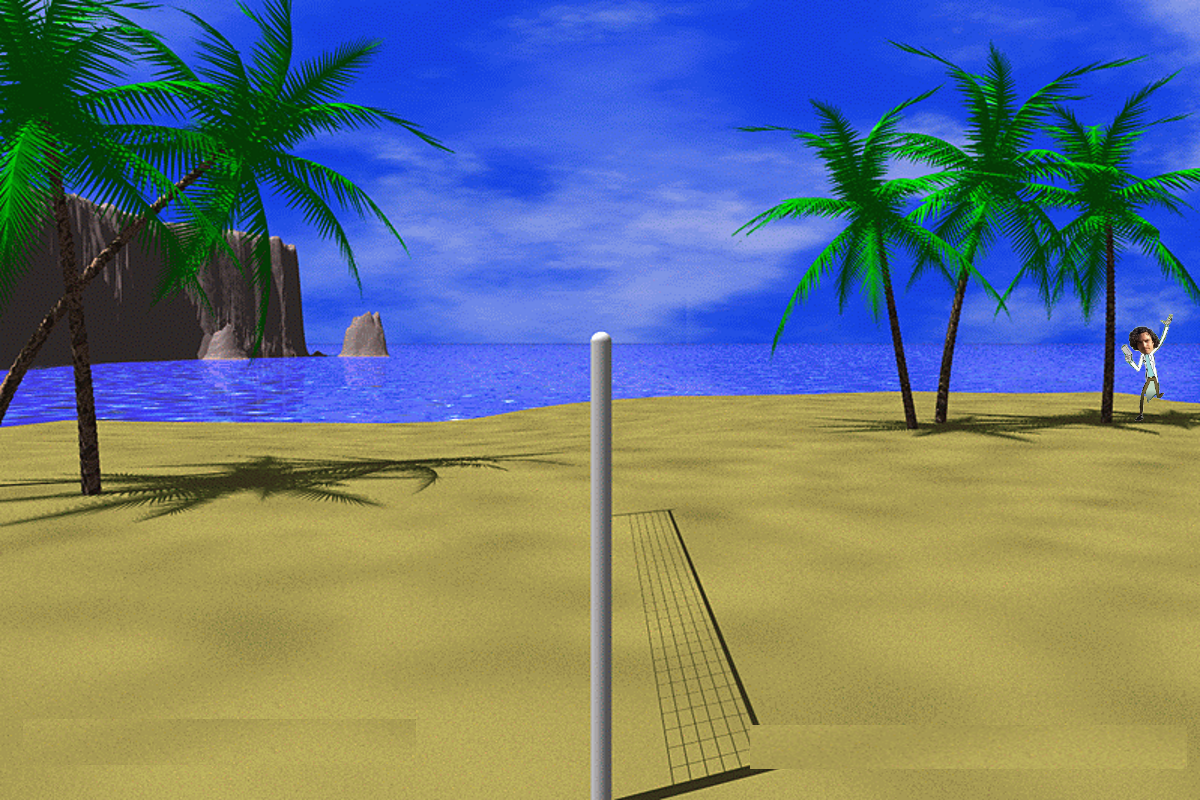
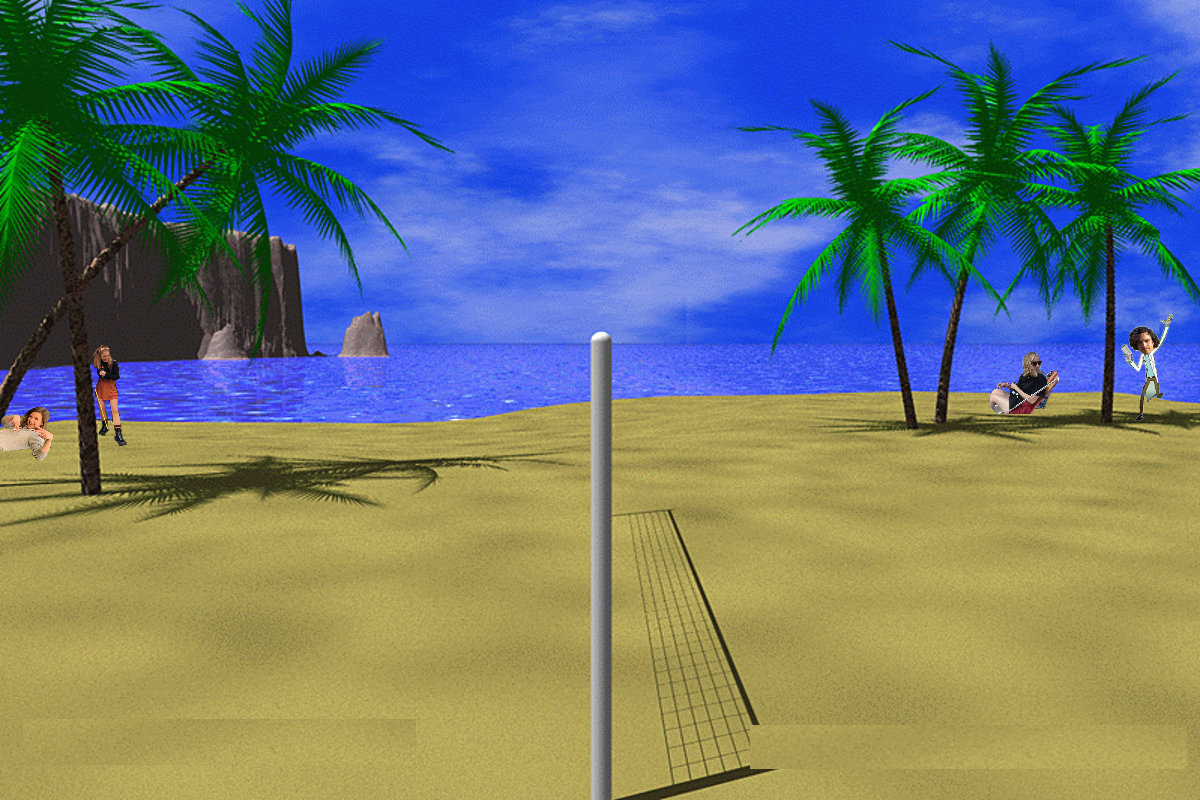
Physics work fine, now adding animations/sprites

Changed region(s): [[0.0, 0.4375, 0.1233, 0.5938], [0.8017, 0.4375, 0.8942, 0.5312]]

diff --git a/gui.py b/gui.py
@@ -1,4 +1,3 @@
-import time
 import pygame
 import helper_functions
 import Button
@@ -6,20 +5,23 @@ import sys
 import ball
 import game
 import player
+import numpy as np
+
+# TODO add animations
 
 class GUI:
     pygame.init()
     pygame.font.init()
     pygame.mixer.init()
     pygame.display.set_caption("Marty´s Coding Palace: Slime Volley")
-    FPS = 75
+    FPS = 60
     SMALL_FONT = pygame.font.SysFont('bahnschrift', 15)
     FONT = pygame.font.SysFont('bahnschrift', 30)
     BIG_FONT = pygame.font.SysFont('bahnschrift', 55)
     CLOCK = pygame.time.Clock()
     WIDTH, HEIGHT = 1200, 800
     SCREEN = pygame.display.set_mode((WIDTH, HEIGHT))
-    SOUND = pygame.mixer.Sound(helper_functions.get_img_loc("ball_hits_sth_sound.wav"))
+    ball_sound = pygame.mixer.Sound(helper_functions.get_img_loc("ball_hits_sth_sound.wav"))  # Load a sound.
 
     def run_menu_screen(self):
         """
@@ -29,6 +31,7 @@ class GUI:
         button_start = Button.Button("Start", "Game", 200, 120, (740, 550), screen=self.SCREEN,
                                      clock=self.CLOCK, elevation=6, GUI_object=self)
         menu_img = pygame.image.load(helper_functions.get_img_loc("menu_pic_final.png"))
+        menu_img.convert()
 
         while True:
             self.SCREEN.blit(menu_img, pygame.rect.Rect(0, 0, 592, 220))
@@ -47,6 +50,9 @@ class GUI:
         current_game = game.Game()
         volleyball, player1, player2, countdown, current_game.running = self.initialize_new_round()
         play_background_img = pygame.image.load(helper_functions.get_img_loc("playing_pitch.png"))
+        play_background_img.convert()
+        net = pygame.Rect(593, 335, 14, 520)
+        frames_since_col = 999  # initialize for later
 
         while True:
             self.SCREEN.blit(play_background_img, pygame.rect.Rect(0, 0, 592, 220))
@@ -67,13 +73,13 @@ class GUI:
                 # player controls:
                 keys = pygame.key.get_pressed()
                 if keys[pygame.K_LEFT] and player2.coordinates[0] > 610:
-                    player2.coordinates[0] -= 6
+                    player2.coordinates[0] -= 8
                 if keys[pygame.K_RIGHT] and player2.coordinates[0] < 1118:
-                    player2.coordinates[0] += 6
+                    player2.coordinates[0] += 8
                 if keys[pygame.K_d] and player1.coordinates[0] < 510:
-                    player1.coordinates[0] += 6
+                    player1.coordinates[0] += 8
                 if keys[pygame.K_a] and player1.coordinates[0] > 0:
-                    player1.coordinates[0] -= 6
+                    player1.coordinates[0] -= 8
                 if keys[pygame.K_w]:
                     player1.jump = True
                 if keys[pygame.K_UP]:
@@ -92,13 +98,7 @@ class GUI:
             ball_tracking_sign = pygame.Rect(volleyball.coordinates[0] + 6, 10, 5, 5)
             pygame.draw.rect(self.SCREEN, (0, 0, 0), ball_tracking_sign)
 
-            # volleyball_rect = pygame.Rect(volleyball.coordinates[0]+6, volleyball.coordinates[1]+11, 50, 67)
-            # player1_rect = pygame.Rect(player1.coordinates[0]+8, player1.coordinates[1]+4, 60, 105)
-            # player2_rect = pygame.Rect(player2.coordinates[0] + 10, player2.coordinates[1]+2, 60, 105)
-            # pygame.draw.rect(self.SCREEN, (255, 0, 0), volleyball_rect)
-            # pygame.draw.rect(self.SCREEN, (255, 0, 0), player1_rect)
-            # pygame.draw.rect(self.SCREEN, (25, 255, 0), player2_rect)
-            volleyball = self.handle_p2b_collisions(volleyball, player1, player2)
+            volleyball, frames_since_col = self.handle_collisions(volleyball, player1, player2, net, frames_since_col)
             player1.update_coordinate_queue_and_vel()
             player2.update_coordinate_queue_and_vel()
 
@@ -113,21 +113,40 @@ class GUI:
         running = False
         return volleyball, player1, player2, countdown, running
 
-    def handle_p2b_collisions(self, volleyball, player1, player2):
+    def handle_collisions(self, volleyball, player1, player2, net, frames_since_col):
+        """
+        Handles collisions of the ball with players and net (Physics + play sound).
+        After a collision with a player, there is a amount of frames where the ball can not be
+        accelerated again, in order to improve physics.
+        """
+        ball_sound = self.ball_sound
         collision_acceleration = 20
-        max_acceleration = 30
-        volleyball_rect = pygame.Rect(volleyball.coordinates[0] + 6, volleyball.coordinates[1] + 11, 50, 67)
+        volleyball_rect = pygame.Rect(volleyball.coordinates[0] + 11, volleyball.coordinates[1] + 11, 58, 69)
         player1_rect = pygame.Rect(player1.coordinates[0] + 8, player1.coordinates[1] + 4, 60, 105)
         player2_rect = pygame.Rect(player2.coordinates[0] + 10, player2.coordinates[1]+2, 60, 105)
-        if volleyball_rect.colliderect(player1_rect):
-            # get vector from player to ball and add standardized acceleration in that direction
-            vector = [volleyball_rect.center[0] - player1_rect.center[0], volleyball_rect.center[1] - player1_rect.center[1]]
-            unit_vector = vector / (vector**2).sum()**0.5
-            print(unit_vector*20)
-        if volleyball_rect.colliderect(player2_rect):
-            volleyball.velocity = player2.velocity
 
-        return volleyball
+        def accelerate_ball(player_rect, frames_since_col):
+            refractory_time = 40  # Nr. of frames which have to pass until the function can be executed again
+            if volleyball_rect.colliderect(player_rect) and frames_since_col > refractory_time:
+                # get vector from player to ball and add standardized acceleration in that direction
+                vector = [volleyball_rect.center[0] - player_rect.center[0], volleyball_rect.center[1] - player_rect.center[1]]
+                vector = np.asarray(vector)
+                unit_vector = vector / np.linalg.norm(vector)
+                acceleration_vector = unit_vector*collision_acceleration
+                volleyball.velocity[0] = acceleration_vector[0]
+                volleyball.velocity[1] = acceleration_vector[1]
+                frames_since_col = 0
+                ball_sound.play()
+            else:
+                frames_since_col += 0.5
+            return frames_since_col
+        frames_since_col = accelerate_ball(player1_rect, frames_since_col)
+        frames_since_col = accelerate_ball(player2_rect, frames_since_col)
+
+        if volleyball_rect.colliderect(net):
+            volleyball.velocity[0] *= -0.8
+
+        return volleyball, frames_since_col
 
 
 

diff --git a/ball.py b/ball.py
@@ -8,21 +8,27 @@ class Ball:
         self. velocity = [0, 0]
         self.acceleration = [0, 0.5]
         self.GUI = GUI
+        self.ball_img = pygame.image.load(helper_functions.get_img_loc("head_ball2.png"))
+        self.ball_img.convert()
 
     def render(self):
-        ball_img = pygame.image.load(helper_functions.get_img_loc("head_ball2.png"))
-        self.GUI.SCREEN.blit(ball_img, pygame.rect.Rect(self.coordinates[0], self.coordinates[1], 40, 50))
+        self.GUI.SCREEN.blit(self.ball_img, pygame.rect.Rect(self.coordinates[0], self.coordinates[1], 40, 50))
     
     def move(self):
         self.velocity[0] += self.acceleration[0]
         self.velocity[1] += self.acceleration[1]
         if 5 > self.coordinates[0] or 1115 < self.coordinates[0]:
-            self.velocity[0] = -self.velocity[0]
-        else:
+            self.velocity[0] *= -0.8
+
+        try:
             self.coordinates[0] = int(self.coordinates[0] + self.velocity[0])
+        except:
+            pass
         
         if self.coordinates[1] > 620:
             self.velocity[1] = 0
-        else: 
+        try:
             self.coordinates[1] = int(self.coordinates[1] + self.velocity[1])
+        except:
+            pass
         

diff --git a/player.py b/player.py
@@ -15,10 +15,13 @@ class Player:
         self.i = 0  # needed for queue
         self.velocity = [int((self.coordinate_queue[0][0] - self.coordinate_queue[2][0]) / 2),
                             int((self.coordinate_queue[0][1] - self.coordinate_queue[2][1]) / 2)]
-    
+        self.player_img = pygame.image.load(helper_functions.get_img_loc(self.img_name))
+        self.player_img.convert()
+        self.sprites1 = []
+        self.sprites1.append(pygame.image.load())
+
     def render(self):
-        player_img = pygame.image.load(helper_functions.get_img_loc(self.img_name))
-        self.GUI.SCREEN.blit(player_img, pygame.rect.Rect(self.coordinates[0], self.coordinates[1], 70, 100))
+        self.GUI.SCREEN.blit(self.player_img, pygame.rect.Rect(self.coordinates[0], self.coordinates[1], 70, 100))
 
     def jumps(self):
         if self.jump is True:
@@ -35,5 +38,4 @@ class Player:
         self.coordinate_queue.pop()
         self.velocity = [int((self.coordinate_queue[0][0] - self.coordinate_queue[2][0]) / 2),
                          int((self.coordinate_queue[0][1] - self.coordinate_queue[2][1]) / 2)]
-
 
